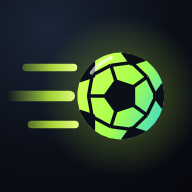
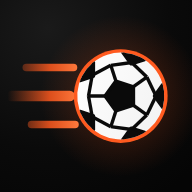
Add files via upload

diff --git a/index.html b/index.html
@@ -7,14 +7,14 @@
 <meta name="apple-mobile-web-app-title" content="LineUp">
 <meta name="apple-mobile-web-app-status-bar-style" content="black-translucent">
 <meta name="application-name" content="LineUp">
-<link rel="manifest" href="manifest.webmanifest?v=3">
-<link rel="icon" type="image/svg+xml" href="icon.svg?v=3">
-<link rel="icon" type="image/png" sizes="192x192" href="icon-192.png?v=3">
-<link rel="apple-touch-icon" sizes="180x180" href="apple-touch-icon.png?v=3">
-<link rel="apple-touch-icon-precomposed" sizes="180x180" href="apple-touch-icon.png?v=3">
-<meta name="theme-color" content="#07090f">
+<link rel="manifest" href="manifest.webmanifest?v=4">
+<link rel="icon" type="image/svg+xml" href="icon.svg?v=4">
+<link rel="icon" type="image/png" sizes="192x192" href="icon-192.png?v=4">
+<link rel="apple-touch-icon" sizes="180x180" href="apple-touch-icon.png?v=4">
+<link rel="apple-touch-icon-precomposed" sizes="180x180" href="apple-touch-icon.png?v=4">
+<meta name="theme-color" content="#050505">
 <link rel="preconnect" href="https://fonts.googleapis.com"><link rel="preconnect" href="https://fonts.gstatic.com" crossorigin>
-<link href="https://fonts.googleapis.com/css2?family=Archivo:ital,wght@0,700;0,800;0,900;1,800;1,900&family=Inter:wght@400;500;600;700;800;900&display=swap" rel="stylesheet">
+<link href="https://fonts.googleapis.com/css2?family=Saira+Condensed:wght@600;700;800;900&family=Saira:wght@400;500;600;700;800&display=swap" rel="stylesheet">
 <title>LineUp</title>
 <style>
   /* ===================== Thema's ===================== */
@@ -297,6 +297,82 @@
   nav#nav button.on{background:var(--acc);color:var(--on-acc)}
   body{padding-bottom:calc(24px + env(safe-area-inset-bottom))}
   .toast{bottom:calc(24px + env(safe-area-inset-bottom))}
+  /* ===================== Broadcast-stijl ===================== */
+  :root, body[data-theme="broadcast"]{
+    --bg:#050505; --bg2:none; --surf:#101010; --surf2:#1b1b1b; --solid:#0c0c0c; --line:rgba(255,255,255,.10);
+    --txt:#ffffff; --muted:#a3a3a3; --acc:#ff5a1f; --acc2:#ff2d55; --on-acc:#ffffff;
+    --hdr:#050505; --hdr-txt:#fff; --hdr-glow:none; --pitch1:#16341f; --pitch2:#1a3c24; --pline:rgba(255,255,255,.7); --kp:#ff5a1f;
+    --ok:#3ee08f; --red:#ff4d6d; --shadow:none; --blur:none; --radius:8px;
+    --font:"Saira",-apple-system,BlinkMacSystemFont,"Segoe UI",Roboto,sans-serif; --disp:"Saira Condensed","Saira",sans-serif;
+    --soft:rgba(255,90,31,.14);
+  }
+  body[data-theme="broadcast"]{background:#050505}
+  header{border-bottom:1px solid var(--line)}
+  header::before{display:none}
+  .card,.tile,.summary,.trow,.tcard{border-radius:8px}
+  h2,.benchtitle,.sgroup,.mt,.stabs button,.phases button,nav#nav button,.pill,.btn,.mbig .mbt b,.mph,.badge,.segs .pill,.whop,table.ov th{font-family:var(--disp);text-transform:uppercase;letter-spacing:.02em}
+  .card h2{font-size:19px;font-weight:900}
+  .mhead .mt{font-size:26px;text-transform:uppercase}
+  /* schuine accentvlakken met rechte tekst */
+  nav#nav button.on, header .pill.tpill.on, .phases button.on, .segc button.on, .stabs button.on, .btn.pri, .mbig, .segs .pill.on, .tag.on, .sw.on{
+    position:relative;isolation:isolate;background:transparent!important;color:#fff!important;box-shadow:none!important;border-color:transparent!important}
+  nav#nav button.on::before, header .pill.tpill.on::before, .phases button.on::before, .segc button.on::before, .stabs button.on::before, .btn.pri::before, .mbig::before, .segs .pill.on::before, .tag.on::before{
+    content:"";position:absolute;inset:0;z-index:-1;background:var(--acc);transform:skewX(-12deg);border-radius:3px}
+  nav#nav{border-radius:6px;background:#111;border-color:var(--line)}
+  nav#nav button{border-radius:3px;color:#cfcfcf}
+  header .pill{border-radius:4px}
+  header .pill.tpill:not(.on){background:#151515;border-color:var(--line);color:#e6e6e6}
+  .pill{border-radius:6px}
+  .btn{border-radius:6px}
+  .btn.big{border-radius:6px;font-size:20px;font-weight:900}
+  .mbig{border-radius:0;padding:14px 18px;margin-left:6px;margin-right:6px;width:calc(100% - 12px);animation:none!important}
+  .mbig .mph{background:#050505;color:#fff;border-radius:3px}
+  .mbig.live .mph::before{background:#fff;box-shadow:none}
+  .phases{background:rgba(5,5,5,.94);border-bottom:1px solid var(--line)}
+  .phases button{border-radius:3px}
+  .phases button.past{color:#ffb08f}
+  .stabs{border-radius:6px;background:rgba(12,12,12,.94)}
+  .segs .pill{border-radius:4px}
+  .segs .pill.on{color:#fff}
+  .pill.now:not(.on){border-color:var(--acc);color:var(--acc)}
+  /* veld */
+  .pitch{border-radius:6px;box-shadow:none;background:repeating-linear-gradient(0deg,var(--pitch1) 0 10%,var(--pitch2) 10% 20%)}
+  .pl .dot{background:#fff!important;color:#050505!important;box-shadow:0 0 0 3px var(--acc)!important;font-family:var(--disp);font-weight:900}
+  .pl.k .dot{background:#141414!important;color:#fff!important;box-shadow:0 0 0 3px var(--acc)!important}
+  .pl.emptyp .dot{background:rgba(0,0,0,.35)!important;color:#fff!important;box-shadow:0 0 0 2px rgba(255,255,255,.6)!important}
+  .pl .nm{background:var(--acc);color:#fff;border-radius:3px;font-family:var(--disp);font-weight:800;text-transform:uppercase;letter-spacing:.02em;-webkit-backdrop-filter:none;backdrop-filter:none}
+  .pl.emptyp .nm{background:rgba(0,0,0,.55)}
+  .pl .mb{border-radius:3px;background:#fff;color:#050505}
+  /* bank, lijsten */
+  .benchp{border-radius:6px;background:#161616}
+  .benchp .bd{background:var(--acc);color:#fff;border-radius:4px;font-family:var(--disp)}
+  .benchp.low{border-color:var(--acc);background:rgba(255,90,31,.10)}
+  .num,.tbadge{background:var(--acc)!important;color:#fff!important;border-radius:4px;font-family:var(--disp)}
+  .bar i{background:var(--acc)}
+  .tile b,.bigscore{background:none;-webkit-background-clip:border-box;background-clip:border-box;color:var(--acc);font-family:var(--disp)}
+  .whop.on{border-color:rgba(255,255,255,.35);background:#1b1b1b}
+  .wissel{background:rgba(255,90,31,.12);border-left:0;border-radius:4px}
+  table.ov .cur{background:rgba(255,90,31,.12)}
+  .switch.on{background:rgba(255,90,31,.2)}
+  .switch.on i{box-shadow:none}
+  .knvb{background:rgba(255,90,31,.10);border-color:rgba(255,90,31,.4)}
+  .modal .box{border-radius:10px}
+  .toast{border-radius:4px;background:#fff;color:#050505;font-family:var(--disp);font-weight:800;text-transform:uppercase}
+  /* woordmerk */
+  .wordmark{font-family:var(--disp);font-weight:900}
+  .wordmark span{background:none;-webkit-background-clip:border-box;background-clip:border-box;color:var(--acc)}
+  .wordmark .speed{background:linear-gradient(90deg,transparent,var(--acc)) 6px 1px/14px 2.5px no-repeat,linear-gradient(90deg,transparent,var(--acc)) 0 6px/20px 3px no-repeat,linear-gradient(90deg,transparent,var(--acc)) 8px 11px/12px 2.5px no-repeat}
+  .logo{box-shadow:none;border-radius:6px}
+  .logo .mark{border-radius:6px}
+  /* scorebalk */
+  nav#nav button{font-size:13px;gap:5px;padding:10px 2px;letter-spacing:0}
+  nav#nav button b .ic{width:15px;height:15px}
+  .benchtitle span{text-transform:none;letter-spacing:0;font-family:var(--font)}
+  .scorebug{display:flex;align-items:stretch;height:36px;margin:-2px 0 12px;font-family:var(--disp);font-weight:900;font-size:19px;text-transform:uppercase;width:max-content;max-width:100%}
+  .scorebug .sbt{background:#fff;color:#050505;padding:0 12px;display:flex;align-items:center}
+  .scorebug .sbs{background:var(--acc);color:#fff;padding:0 14px;display:flex;align-items:center;white-space:nowrap}
+  .scorebug .sbst{background:#1d1d1d;color:#fff;padding:0 12px;display:flex;align-items:center;gap:7px;font-size:14px;white-space:nowrap;overflow:hidden;text-overflow:ellipsis}
+  .scorebug .sbdot{width:8px;height:8px;border-radius:50%;background:var(--acc2);animation:blink 1s infinite;flex:none}
   @media print{
     body{background:#fff;color:#000;padding:0}
     header,nav,main,.toast{display:none!important}
@@ -313,7 +389,7 @@
 </style>
 </head>
 <body>
-<script>document.body.dataset.theme = "neon";</script>
+<script>document.body.dataset.theme = "broadcast";</script>
 <header>
   <div class="brand"><div class="logo" id="logoBox"></div><div><div class="club" id="clubName"></div><div class="app wordmark"><i class="speed"></i>Line<span>Up</span></div></div><span id="cloudDot" class="cloud" data-act="goCloud"></span></div>
   <div class="teams" id="teams"></div>
@@ -384,7 +460,7 @@ function iconize(html){
   }).join('');
 }
 const stripEmo = t => String(t).replace(EMO_RE, '').replace(/\s{2,}/g, ' ').trim();
-const LOGO_MARK = `<svg viewBox="0 0 512 512" class="mark" aria-label="LineUp"><defs><linearGradient id="lu-g" x1="0" y1="0" x2="1" y2="1"><stop offset="0" stop-color="#e0ff5c"/><stop offset=".55" stop-color="#a6ff4d"/><stop offset="1" stop-color="#22d3ee"/></linearGradient><linearGradient id="lu-s" gradientUnits="userSpaceOnUse" x1="20" y1="0" x2="210" y2="0"><stop offset="0" stop-color="#c6ff3d" stop-opacity="0"/><stop offset=".6" stop-color="#c6ff3d" stop-opacity=".8"/><stop offset="1" stop-color="#e8ff8a"/></linearGradient><radialGradient id="lu-bg" cx=".25" cy=".15" r="1.05"><stop offset="0" stop-color="#1a2536"/><stop offset=".6" stop-color="#0b0f18"/><stop offset="1" stop-color="#07090f"/></radialGradient><radialGradient id="lu-glow" cx=".63" cy=".5" r=".42"><stop offset="0" stop-color="#c6ff3d" stop-opacity=".38"/><stop offset="1" stop-color="#c6ff3d" stop-opacity="0"/></radialGradient><clipPath id="lu-ball"><circle cx="322" cy="256" r="116"/></clipPath></defs><rect width="512" height="512" rx="112" fill="url(#lu-bg)"/><rect width="512" height="512" rx="112" fill="url(#lu-glow)"/><g stroke="url(#lu-s)" stroke-linecap="round" fill="none"><path d="M70 180H196" stroke-width="20"/><path d="M30 256H186" stroke-width="28"/><path d="M84 332H200" stroke-width="20"/></g><g transform="rotate(-18 322 256)"><circle cx="322" cy="256" r="116" fill="url(#lu-g)"/><g clip-path="url(#lu-ball)" fill="#0b0f18" stroke="#0b0f18" stroke-width="9" stroke-linejoin="round"><polygon points="322.0,214.0 361.9,243.0 346.7,290.0 297.3,290.0 282.1,243.0"/><path d="M322.0 214.0L322.0 170.0"/><path d="M361.9 243.0L403.8 229.4"/><path d="M346.7 290.0L372.5 325.6"/><path d="M297.3 290.0L271.5 325.6"/><path d="M282.1 243.0L240.2 229.4"/><path d="M322.0 170.0L266.7 180.0"/><path d="M322.0 170.0L377.3 180.0"/><path d="M403.8 229.4L377.3 180.0"/><path d="M403.8 229.4L411.4 285.0"/><path d="M372.5 325.6L411.4 285.0"/><path d="M372.5 325.6L322.0 350.0"/><path d="M271.5 325.6L322.0 350.0"/><path d="M271.5 325.6L232.6 285.0"/><path d="M240.2 229.4L232.6 285.0"/><path d="M240.2 229.4L266.7 180.0"/><polygon points="374.9,183.2 363.3,147.4 393.7,125.3 424.1,147.4 412.5,183.2"/><polygon points="407.6,283.8 438.0,261.7 468.5,283.8 456.8,319.6 419.2,319.6"/><polygon points="322.0,346.0 352.4,368.1 340.8,403.9 303.2,403.9 291.6,368.1"/><polygon points="236.4,283.8 224.8,319.6 187.2,319.6 175.5,283.8 206.0,261.7"/><polygon points="269.1,183.2 231.5,183.2 219.9,147.4 250.3,125.3 280.7,147.4"/></g></g><path d="M244 194a116 116 0 0 1 52-40" stroke="#fff" stroke-opacity=".6" stroke-width="10" stroke-linecap="round" fill="none"/></svg>`;
+const LOGO_MARK = `<svg viewBox="0 0 512 512" class="mark" aria-label="LineUp"><defs><linearGradient id="lu-g" x1="0" y1="0" x2="1" y2="1"><stop offset="0" stop-color="#ffffff"/><stop offset="1" stop-color="#f1f1f1"/></linearGradient><linearGradient id="lu-s" gradientUnits="userSpaceOnUse" x1="20" y1="0" x2="210" y2="0"><stop offset="0" stop-color="#ff5a1f" stop-opacity="0"/><stop offset=".6" stop-color="#ff5a1f" stop-opacity=".85"/><stop offset="1" stop-color="#ff7a3d"/></linearGradient><radialGradient id="lu-bg" cx=".25" cy=".15" r="1.05"><stop offset="0" stop-color="#1a1a1a"/><stop offset=".6" stop-color="#0a0a0a"/><stop offset="1" stop-color="#050505"/></radialGradient><radialGradient id="lu-glow" cx=".63" cy=".5" r=".42"><stop offset="0" stop-color="#ff5a1f" stop-opacity=".30"/><stop offset="1" stop-color="#ff5a1f" stop-opacity="0"/></radialGradient><clipPath id="lu-ball"><circle cx="322" cy="256" r="116"/></clipPath></defs><rect width="512" height="512" rx="112" fill="url(#lu-bg)"/><rect width="512" height="512" rx="112" fill="url(#lu-glow)"/><g stroke="url(#lu-s)" stroke-linecap="round" fill="none"><path d="M70 180H196" stroke-width="20"/><path d="M30 256H186" stroke-width="28"/><path d="M84 332H200" stroke-width="20"/></g><circle cx="322" cy="256" r="125" fill="#ff5a1f"/><g transform="rotate(-18 322 256)"><circle cx="322" cy="256" r="116" fill="url(#lu-g)"/><g clip-path="url(#lu-ball)" fill="#0a0a0a" stroke="#0a0a0a" stroke-width="9" stroke-linejoin="round"><polygon points="322.0,214.0 361.9,243.0 346.7,290.0 297.3,290.0 282.1,243.0"/><path d="M322.0 214.0L322.0 170.0"/><path d="M361.9 243.0L403.8 229.4"/><path d="M346.7 290.0L372.5 325.6"/><path d="M297.3 290.0L271.5 325.6"/><path d="M282.1 243.0L240.2 229.4"/><path d="M322.0 170.0L266.7 180.0"/><path d="M322.0 170.0L377.3 180.0"/><path d="M403.8 229.4L377.3 180.0"/><path d="M403.8 229.4L411.4 285.0"/><path d="M372.5 325.6L411.4 285.0"/><path d="M372.5 325.6L322.0 350.0"/><path d="M271.5 325.6L322.0 350.0"/><path d="M271.5 325.6L232.6 285.0"/><path d="M240.2 229.4L232.6 285.0"/><path d="M240.2 229.4L266.7 180.0"/><polygon points="374.9,183.2 363.3,147.4 393.7,125.3 424.1,147.4 412.5,183.2"/><polygon points="407.6,283.8 438.0,261.7 468.5,283.8 456.8,319.6 419.2,319.6"/><polygon points="322.0,346.0 352.4,368.1 340.8,403.9 303.2,403.9 291.6,368.1"/><polygon points="236.4,283.8 224.8,319.6 187.2,319.6 175.5,283.8 206.0,261.7"/><polygon points="269.1,183.2 231.5,183.2 219.9,147.4 250.3,125.3 280.7,147.4"/></g></g></svg>`;
 
 /* ===================== Data ===================== */
 const KEY = 'opstellingmaker.v1';
@@ -679,7 +755,7 @@ function renderHeader(){
   document.title = (t.club ? t.club + ' · ' : '') + 'LineUp';
   document.getElementById('teams').innerHTML = iconize(
     `<button class="pill addt" data-act="newTeamSheet" aria-label="Nieuw team">＋</button>` +
-    sortedTeams().map(x => `<button class="pill tpill ${x.id === t.id ? 'on' : ''}" style="--tc:${teamColor(x)};--tct:${onColor(teamColor(x))}" data-act="team" data-id="${x.id}"><i class="tdot"></i>${esc(teamLabel(x))}</button>`).join(''));
+    sortedTeams().map(x => `<button class="pill tpill ${x.id === t.id ? 'on' : ''}" data-act="team" data-id="${x.id}">${esc(teamLabel(x))}</button>`).join(''));
   document.querySelectorAll('nav button').forEach(b => b.classList.toggle('on', b.dataset.tab === ui.tab));
 }
 function render(){
@@ -751,6 +827,20 @@ function scoreLine(m){
   return m.home === false ? `${esc(m.goalsAgainst)} – ${esc(m.goalsFor)}` : `${esc(m.goalsFor)} – ${esc(m.goalsAgainst)}`;
 }
 
+// scorebalk zoals bij een tv-uitzending
+function abbr(name){
+  const w = String(name || '').replace(/[^A-Za-zÀ-ÿ0-9 ]/g, ' ').split(/\s+/).filter(x => x && !/^(vv|sv|fc|rkvv|rksv|vc|sc|rkv|vcs|svv|asv|rkc|cvv|hvv|jo\d+|mo\d+|o\d+)$/i.test(x));
+  return ((w[0] || name || '???').slice(0, 3)).toUpperCase();
+}
+function scoreBug(m){
+  const t = team(), me = abbr(t.club || t.name), op = abbr(m.opponent || 'TEG');
+  const gf = hasScore(m) ? +m.goalsFor : null, ga = hasScore(m) ? +m.goalsAgainst : null;
+  const left = m.home === false ? op : me, right = m.home === false ? me : op;
+  const sc = gf === null ? 'VS' : (m.home === false ? `${ga} – ${gf}` : `${gf} – ${ga}`);
+  const st = m.phase === 'live' ? `<i class="sbdot"></i>LIVE · ${esc(blockLabel(m, m.cur || 0))}` : m.phase === 'post' ? 'AFGELOPEN' : 'EINDSTAND';
+  return `<div class="scorebug"><span class="sbt">${esc(left)}</span><span class="sbs">${sc}</span><span class="sbt">${esc(right)}</span><span class="sbst">${st}</span></div>`;
+}
+
 function viewMatch(){
   const m = match();
   if (!m){ ui.matchId = null; return viewMatches(); }
@@ -773,9 +863,9 @@ function viewMatch(){
 
   const header = `
   <div class="card mhead">
+    ${ph !== 'prep' ? scoreBug(m) : ''}
     <div class="mt">${esc(matchTitle(m))}</div>
     <div class="muted">${fmtDate(m.date, {weekday:'long', day:'numeric', month:'long'})} · ${settingsLine(st)}</div>
-    ${hasScore(m) && ph !== 'prep' ? `<div class="bigscore">${scoreLine(m)}</div>` : ''}
   </div>`;
 
   // ---- opstelling
@@ -1008,7 +1098,6 @@ function teamInfoCard(x){
       <label class="f">📅 Seizoen<input value="${esc(ls.name)}" data-ts="name" data-id="${x.id}"></label>
     </div>
     <datalist id="clubNames">${clubList().map(c => `<option value="${esc(c)}">`).join('')}</datalist>
-    <div class="f">🎨 Teamkleur<div class="muted" style="margin:2px 0 8px">Zie je terug bovenin en bij het team.</div>${colorPicker(x)}</div>
     <div class="muted">${ls.players.length} spelers · ${ls.matches.length} wedstrijden · ${ls.matches.filter(m => m.phase === 'done').length} gespeeld</div>
   </div>
   <div class="card">
